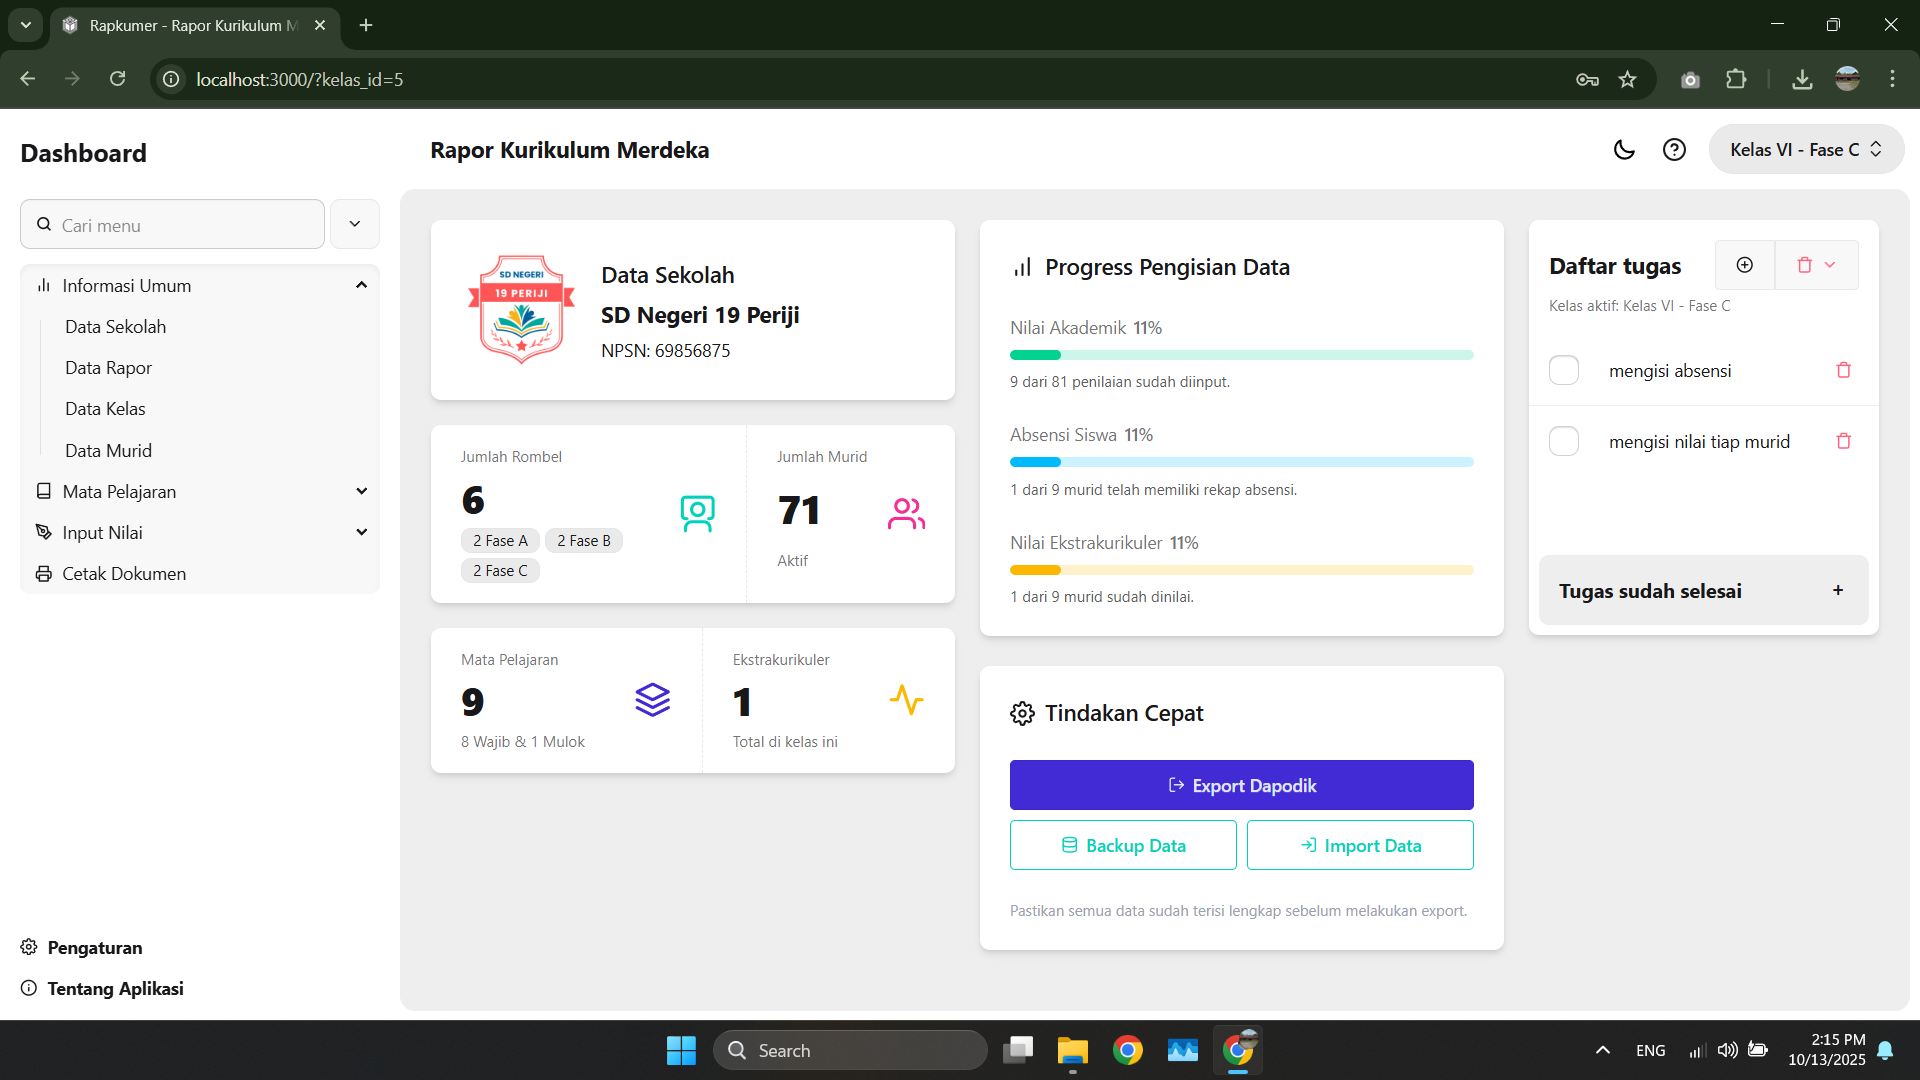
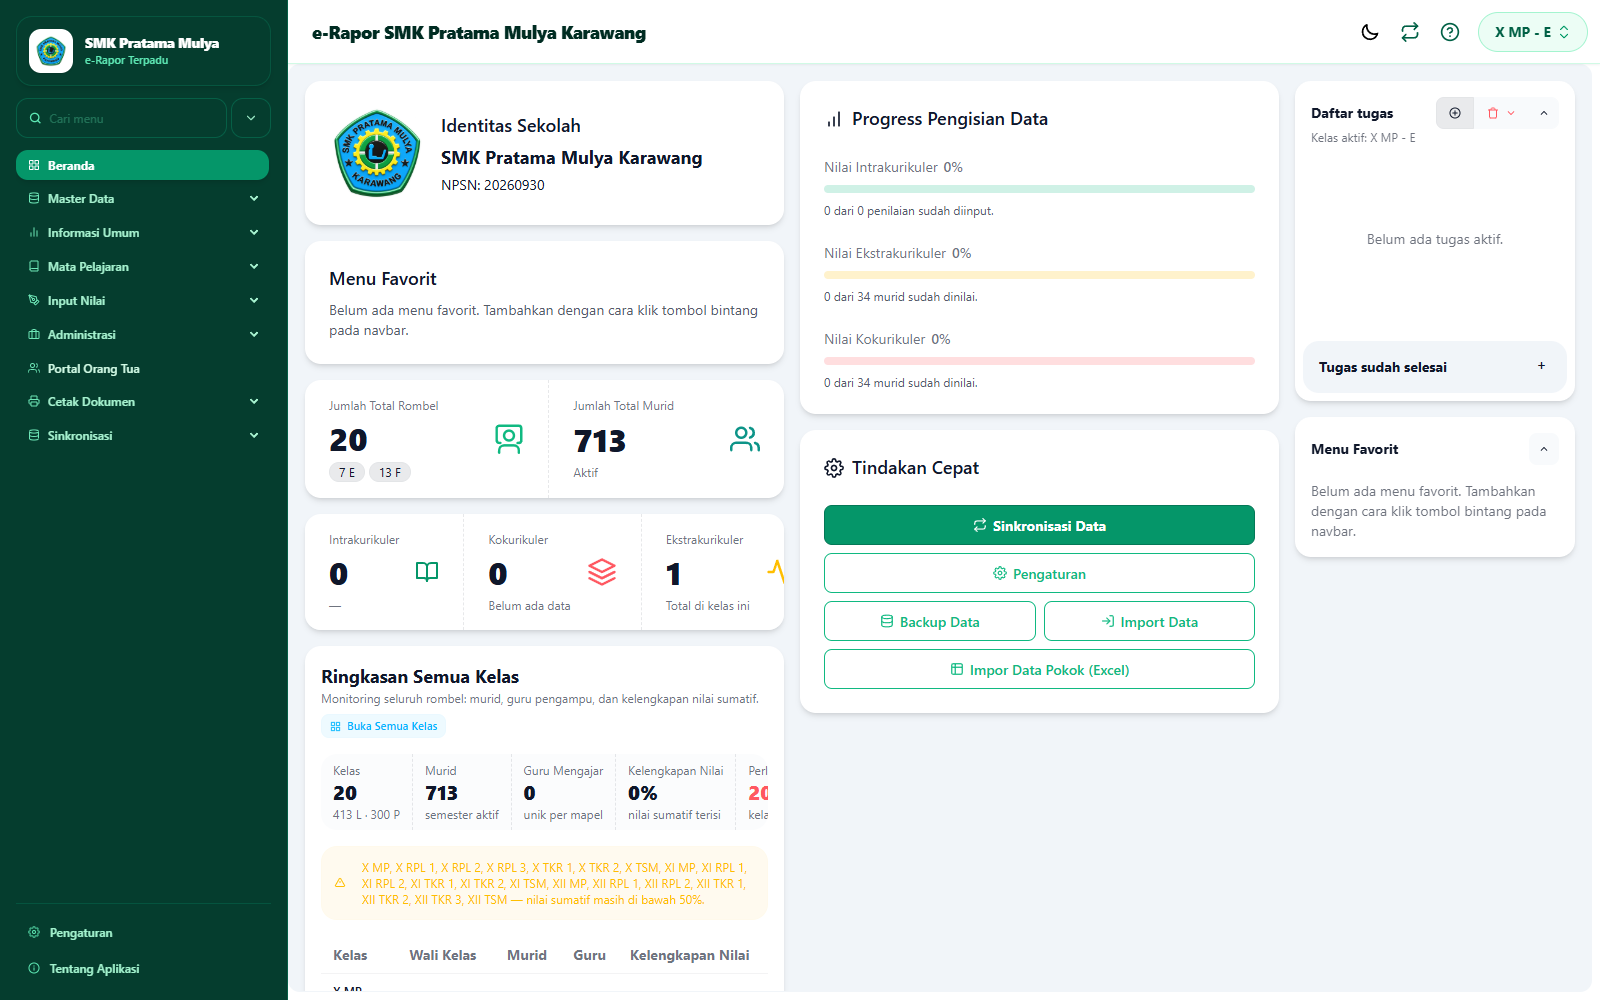
docs: perbarui screenshot README + tambah skrip ambil screenshot

diff --git a/README.md b/README.md
@@ -31,6 +31,32 @@ Dokumentasi lengkap aplikasi ini disusun dalam bahasa Indonesia. File README ini
 - Dinas luar dan SPPD otomatis
 - Tarik data dari Dapodik (sinkronisasi sekolah, guru, kelas, murid, dan jadwal pembelajaran secara otomatis dari aplikasi Dapodik Desktop)
 - Kirim nilai akhir dan mata evaluasi (matev) langsung ke Dapodik
+- Kustomisasi cetak: mengubah teks kop, gambar (logo & watermark), dan jarak/layout dokumen cetak, lengkap dengan live preview dokumen sebelum disimpan.
+- Master Data terpadu: tahun ajaran, semester, kelas, murid, mata pelajaran, ekstrakurikuler (sekolah bisa menganggotakan murid ke ekstrakurikuler), data pengguna, orang tua, dan profil sekolah.
+- Manajemen data pengguna untuk guru & operator, termasuk impor daftar guru dari Excel/CSV (akun guru dibuat dengan kata sandi awal dan wajib menggantinya saat login pertama).
+- Mode "Semua Kelas" untuk admin dan kepala sekolah agar bisa melihat data seluruh kelas tanpa memilih kelas aktif.
+
+## Screenshot
+
+### Dashboard
+
+![Dashboard e-Rapor SMK Pratama Mulya](static/screenshot-dashboard.png)
+
+### Kustomisasi Cetak (live preview)
+
+![Halaman Kustomisasi Cetak](static/screenshot-kustomisasi-cetak.png)
+
+### Data Pengguna (Guru & Operator)
+
+![Halaman Data Pengguna](static/screenshot-data-pengguna.png)
+
+### Master Data
+
+![Halaman Master Data](static/screenshot-master-data.png)
+
+### Presensi Murid
+
+![Halaman Presensi Murid](static/screenshot-presensi-murid.png)
 
 ## Siapa yang Cocok Menggunakan e-Rapor SMK Pratama Mulya?
 
